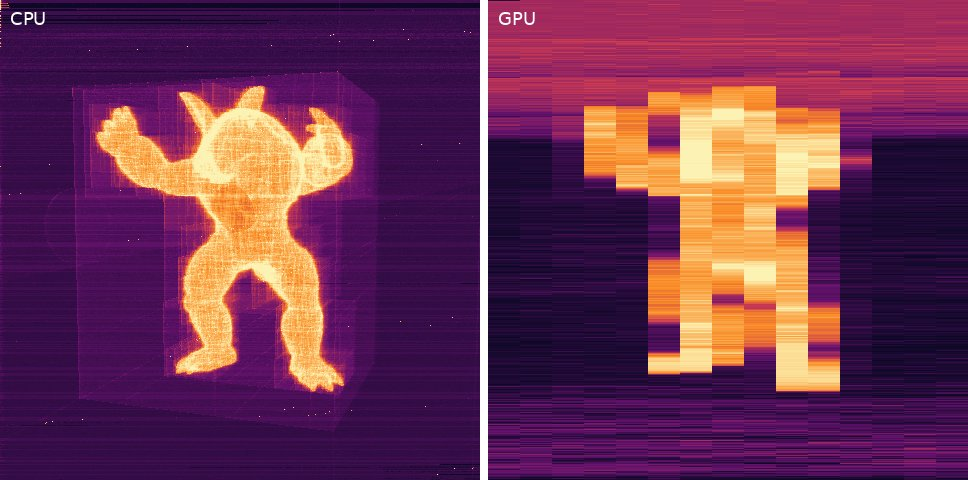
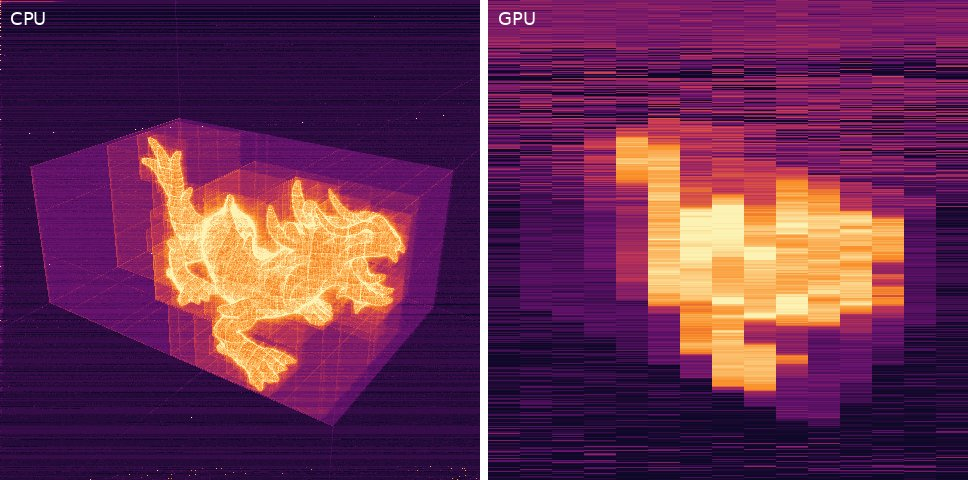
Docs: the view figures on the xyzrgb dragon: the shaded, depth and x-ray views, and the cost views on CPU and GPU
Claude-Session: https://claude.ai/code/session_01FnaeZk1ThKVcT9ypbex2Vt

diff --git a/Docs/Sphinx/source/ImplemRender.rst b/Docs/Sphinx/source/ImplemRender.rst
@@ -90,8 +90,8 @@ The classes are in namespace ``Render``:
 The cost views on the host and on a device
 ------------------------------------------
 
-The figures show the scene of :ref:`Chap:ExampleMaterials` in the two cost views, rendered on the host (left)
-and on a GPU (right). On the host each pixel's time is its own ray's, so the picture shows where the work is:
+The figures show a mesh, the xyzrgb dragon of :ref:`Chap:ExampleMeshCSG` as a ``TriMeshSDF``, in the two cost
+views, rendered on the host (left) and on a GPU (right). On the host each pixel's time is its own ray's, so the picture shows where the work is:
 the mesh's surface, and the boxes of its BVH, which a ray costs more to enter. On a GPU a pixel's time is how
 long its thread was busy: the 32 threads of a warp trace together, so each pixel shows the slowest ray of its
 warp (blocks of 32 pixels along a row), and every ray waits on memory far longer than on a CPU core, which the

diff --git a/Docs/Sphinx/source/Rendering.rst b/Docs/Sphinx/source/Rendering.rst
@@ -84,6 +84,12 @@ Besides the shaded picture, the renderer has views that show what shading hides:
   where threads trace in groups that wait for their slowest ray, the time a pixel waited too; they show where
   a shape is expensive, not a benchmark (see :ref:`Chap:PerformanceTesting` for measuring).
 
+.. figure:: _static/render_views.jpg
+   :width: 100%
+   :align: center
+
+   A mesh in the shaded view, the depth view and the x-ray view.
+
 Any surface can also be made **see-through**: a camera ray that meets it goes on as if it were not there,
 and the surface behind it is drawn as if seen from outside. Only the picture changes: shadows, ambient
 occlusion and what is inside the solid are those of the whole shape. And a part's inside can be **filled**
